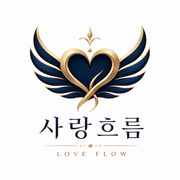
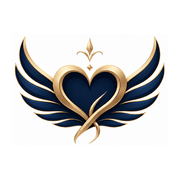
696 공유하기 · 홈 화면에 추가 표준(frame v29 · index v74) · 홈 화면 아이콘 사랑흐름 자기 파일 · 「휴대폰에서 보는 디지털 결과물」 등 휴대폰 한정 말 고침(item v10 · map v3 · set v3 · kit v9 · proposal v43 · my v6 · draw v47)
Claude-Session: https://claude.ai/code/session_01CevunhmdH8sceqdjC36mYo

diff --git a/proposal.html b/proposal.html
@@ -1,4 +1,5 @@
-<!-- ★ 현재 버전 ▶ proposal.html · v42 · 261116 · [카톡 첫인상 그림 교체 · 대표 OK 261116 17:39 「B로 가자」] og-image.png 새 그림(1200×630 · 나를 가운데 둔 관계망 · 「서로의 언어를 알면, 사랑은 더욱 깊어집니다」 · 「MBTI와 사랑흐름 LFRI™로 두 사람 사이를 이어갑니다」) — 그림 주소에 ?v=261116 붙임(카카오 · 네이버가 새 그림을 받게). [무손] 그 밖 v41 전부. -->
+<!-- ★ 현재 버전 ▶ proposal.html · v43 · 261116 · [대표 261116 19:22 「휴대폰에서만 보는 게 아니잖아 · 인쇄도 못 하나 생각이 먼저 든다 · 다 뜯어 고쳐」] 「완성본 전달」 「각자 휴대폰에 저장하시거나」 → 「각자 휴대폰 · 컴퓨터에 저장하시거나」. [무손] 그 밖 v42 전부. -->
+<!-- (이전) ★ 현재 버전 ▶ proposal.html · v42 · 261116 · [카톡 첫인상 그림 교체 · 대표 OK 261116 17:39 「B로 가자」] og-image.png 새 그림(1200×630 · 나를 가운데 둔 관계망 · 「서로의 언어를 알면, 사랑은 더욱 깊어집니다」 · 「MBTI와 사랑흐름 LFRI™로 두 사람 사이를 이어갑니다」) — 그림 주소에 ?v=261116 붙임(카카오 · 네이버가 새 그림을 받게). [무손] 그 밖 v41 전부. -->
 <!-- (이전) ★ 현재 버전 ▶ proposal.html · v41 · 261112 · [포털 검색 ① · 700 · 703 · 대표 OK 261112 11:13] 화면은 그대로 · 머리말만 — 대표 주소(canonical) · 설명 · og · 사이트 이름 「사랑흐름」 · 아이콘(favicon) 붙임 -->
 <!-- (이전) ★ 현재 버전 ▶ proposal.html · v40 · 261112 · [611 · 대표 05:41 「일관성 있게 10편으로 · 토 달지 말고 한 가지로」] 생애사 기록 과정도 열 이야기로 — 「여덟」 · 「아홉째 · 열째는 더해」 말을 걷음. [무손] 그 밖 전부. -->
 <!-- (이전) proposal.html · v39 · 261112 · [611 · 대표 OK 05:19] 자서전 이야기 수를 손님 화면(/memoir/ · /item/)과 맞춤 — 「여덟 구간 · 여덟 자리 · 한 구간」 → 「열 이야기 · 한 이야기」 · 이름 여덟(옛 이름) → 열(33차 확정 A-01 + 아홉째 · 열째 · 셋째 줄 g2 · 강조 mark 는 열째로) · 생애사 기록 과정은 값(79,000 × 8)과 서버 「삶의 여정」(첫째~여덟째)이 걸려 「여덟 이야기 전체 과정 · 여덟 회차」 그대로 + 「아홉째 · 열째는 더해 고르실 수 있습니다」. [무손] 값 · 그 밖 전부. -->
@@ -8,7 +9,7 @@
 <!-- ★ (이전) proposal.html · v35 · 261005 · [작업 v35 · 사진 90일] [대표 결정 261005 12:10 ok] 사진도 기록과 같은 90일 규정 하나로 — 14일 규정 없앰(26차 「사진 원본 14일」 바뀜). 「기록과 함께 보관했다가 기록을 지울 때 함께 지움(마지막 이야기를 마치신 날부터 90일)」. 기관 제안서 사진 줄. [무손] 그 밖 전부. -->
 <!-- ★ 현재 버전 ▶ proposal.html · v34 · 261005 · [작업 v34 · 사진 문구] [클로드 판단 · 대표 위임 261005 11:29] 실제와 맞춤 — 사진은 휴대폰에서 기록에 싣는 크기(긴 쪽 1000)로 줄여 받으므로 원본 파일은 사랑흐름에 오지 않음. 「원본 14일 안에 지움」 → 「원본 파일은 받지 않음」(지킬 수 없는 약속 대신 사실). 기관 제안서 사진 줄. [무손] 그 밖 전부. -->
 <!-- ★ 현재 버전 ▶ proposal.html · v33 · 261005 · [작업 v33 · 자서전 공사 칸 27-4 · 둘째 묶음 틀] 공용 틀 /lf/frame.js?v=5 붙임(위 띠 · ☰ · 아래 길목 다섯 · 옛 상단바 · 드로어 · 길 셋 감춤). 아래 고정 띠(내려받기 · 복사)를 길목 띠 위로 올림 · 「사랑흐름 여행 둘러보기」 감춤(아래 띠와 겹침) · 화면 이름 짧게. [무손] 본문 · 배관 · 서버. -->
-<!-- ★ 현재 버전 ▶ proposal.html · v32 · 260811 · [작업 v32] ★화면에 「여권」이 앞말 없이 덩그러니 놓여 나라 여권으로 오해될 수 있던 자리를 고칩니다(대표 지시 260811). ☰ 메뉴 항목을 ★「마음 여행여권으로 입장」으로 맞춥니다. 확정 규칙 — 손님에게 보이는 물건 이름은 「마음 여행여권」, 실제로 번호를 넣는 자리는 「사랑흐름 여권번호」. 문맥에서 이미 무슨 여권인지 아는 자리(「이 여권은」·「받으신 여권」 등)는 오해가 없어 그대로 둡니다. 시트 열 이름 d['여권번호']·변수·저장 키는 손대지 않았습니다. [무손] 본문·구조·색값·링크·배관 전부 미변경. · v31 · 260810 · [작업 v31] ★문지기(/lf/pass.js) 한 줄 부착 — 대표 확정 260810 「어느 창에서 시작해도 일곱이 있어야 한다」. 홈 · 바로 앞 · 여권으로 문 열기 · 여권 찾기 · 하던 것 이어가기 · 받은 것 다시 보기 · 드나드는 길. 이 화면은 여권칸과 이어가기가 없어 일곱 중 셈이 비어 있었습니다. 문지기가 여권칸을 세우고 ☰ 메뉴 링크에 번호를 붙입니다(마크업 미변경). [무손] 화면 본문·기존 로직·색값 전부. 손대는 곳 = 헤더와 head 한 줄. · v30 · 260807 · [작업 v30] ★무거운 쪽으로 기운 자리 자가 검진 후 교정. 히어로는 재미 쪽으로 갔는데 안으로 들어가면 미안함·회한으로 끌고 있었습니다(260807 대표 지적 — MBTI처럼 재미있게 접근하기로 정한 방향과 어긋남). ①인용을 ★「엄마가 그 말을 그런 뜻으로 한 거였구나 / 완성된 편지를 처음 열어 보신 분의 말씀입니다」로. 앞서 쓴 「미안하다 말하고 싶었는데, 이 편지가 대신 말해주는 것 같았어요 / 편지를 받으신 분들이」는 주어가 뒤집혀 있었습니다 — 미안한 쪽은 쓰는 사람인데 받는 사람 말로 붙였습니다. ②편지 예문을 ★「엄마. 우리가 왜 그렇게 자주 부딪혔는지 이제야 알 것 같아요」로. 「그동안 한 번도 말하지 못했던 이야기를 이제야 적어 봅니다」는 회한이 앞섰습니다. ③교육 성과 「하지 못했던 말을 꺼내 보게 됩니다」→★「서로 다르게 듣던 말이 풀립니다」. MBTI 겹치기가 우리 방식이니 다름에서 오는 발견이 우리 자리입니다. ④「화면이 글자로 받아 적습니다」→「글자로 옮깁니다」(사람이 받아 적는 것으로 읽힐 소지). · [작업 v29] ★세 번 돌아보고 고침(260807 대표 지시 — 한 줄씩 지적하시게 하지 말 것). 【1회차·대표 지적】①「가장 많이 듣는 말이 대신 말해줘서」→누가 언제 한 말인지 없어 알 수 없었습니다. ★「미안하다 말하고 싶었는데, 이 편지가 대신 말해주는 것 같았어요 / 편지를 받으신 분들이 가장 많이 하신 말씀입니다」로 인용 형식. ②「서명은 그 한 편을 확인하셨다는 표시입니다」→증표가 표시로 격하됐습니다. ★「손글씨 서명은 그 여정을 스스로 마쳤다는 증표입니다. 한 구간이 끝날 때마다 날짜와 함께 남기시고, 여덟 자리를 다 걸으시면 여덟 개의 증표가 한 사람의 여정으로 모입니다」. ③절 제목 「어떤 분이든 남기실 수 있습니다」→★「말로 남기는 기록」. 「글을 쓰지 않으셔도」로 시작해 우수한 기능을 못한다는 말로 열고 있었습니다. ④「말씀만 하셔도 글이 됩니다. 손이 불편하셔도, 눈이 어두우셔도, 글을 오래 안 쓰셨어도 그대로 남습니다」로 기능을 앞세움. 【2회차·다시 읽고】히어로 「글로 남깁니다」→「그 마음을 글로 옮겨 건넵니다」 · 「건네집니다」 중복 정리 · 「남기는」 「남습니다」 반복 정리 · 「선물 대신」→「마음을 전하는 자리로」 · 마무리 lead 「전하지 못한 마음도 여행이 될 수 있습니다」→「먼저 열어 보시고 정하십시오」. 【3회차·확정 문구 대조】★「진행 인력이 지원합니다」 삭제 — 사람을 보내 준다는 약속이 됩니다. 「결과물이 산출됩니다」→260726 확정 문구 「참여하신 분마다 결과물이 나옵니다」로 통일. 단계별 연계 구성 절에 창고 확정 세 줄(좋은 사이는 더 깊게 이어지고…) 배치. · [작업 v28] ★「교육 성과」 통일 + 여권 표기 정리(260807 대표 지적 스무 곳 일괄). ①「교육 효과」·「기대 효과」를 ★「교육 성과」로 통일. ②★그 칸 내용이 결과물 목록이었던 것을 성과로 바꿈 — 관계 이해는 「그 관계가 지금 어디쯤인지 알게 됩니다·서로 말하는 방식이 어떻게 다른지 풀립니다·참여자마다 마음 여행지도가 나옵니다」, 관계 소통은 「하지 못했던 말을 꺼내 보게 됩니다·그 마음이 실제로 그 사람에게 건네집니다·참여자마다 마음 여행편지가 나옵니다」, 생애 기록은 「살아온 이야기가 글로 남습니다·자기 삶을 다시 읽어 보게 됩니다·참여자마다 기록이 나옵니다」. 프로그램 구성표 열도 같은 결로. ③★여권 표기 — 상품을 가리키면 「마음 여행여권」, 「여권」만 홀로 써서 무슨 여권인지 애매해지는 자리는 ★「사랑흐름 여권」(브랜드로 오해 방지). 「이 한 장으로」·「이 번호 하나로」·「같은 여권으로」 전부 교체. ④「한 장」·「한 통」·「한 편씩」 세는 말 정리 — 여러 사람이 하는 교육에 낱개 세기가 어울리지 않습니다. ⑤「어떤 형태로 남는지」→「실제로 만들어진 것을 먼저 보십니다」. ⑥「관리자 화면에서」→「담당자 계정에서」. · [작업 v27] ★260726 확정 문구로 복원 + 브랜드 절 다시 세움. ①★「책」 전면 삭제 — 「목차와 사진이 들어간 책 형태로」·「서명은 책에 그대로 담깁니다」·「책에서는 사진 한 장이 한 쪽으로」. 260726에 「인쇄 납품·실물 배송」과 함께 지운 표현을 제가 오늘 되살렸습니다. 결과물은 파일이고 손님이 저장하거나 인쇄해 간직합니다. 종이책은 별도입니다. 완성본 전달을 260726 확정 문구 「참여하신 분마다 결과물이 나옵니다. 각자 휴대폰에 저장하시거나 인쇄해 간직하십니다」로 되돌렸습니다. ②「완성본을 먼저 보내」→「완성본을 먼저 확인하십니다」(보내는 배관 없음). ③「없는 자리는 건너뛰고, 중간에 멈춰도 이어집니다」 삭제(불성실하게 써도 결과물이 나온다고 읽힘). ④「어르신 프로그램에서 가장 큰 벽은」 단정 삭제 → 「글을 쓰지 않으셔도 남기실 수 있습니다」. 「기기가 안 되면 자판의 마이크를」 삭제(우리 사정). ⑤★마음 여행여권 절을 발급 설명에서 ★브랜드로 다시 세움 — 「나라를 넘나드는 여권처럼, 이 한 장으로 사랑흐름의 모든 문이 열립니다」. 어디서든 같은 자리로 · 지난 여행이 그대로 · 한 장으로 여러 여정. 발급·명단은 한 줄로 내렸습니다(진행 순서 절과 겹침). ⑥★기관 담당자 계정 명시 — 260707~08 이사회 확정 3레벨(L1 대표·L2 조직 총무·L3 실무). 여행DB_v2 에 Source·OrganizationID·InputMethod 칸이 이미 있습니다. ⑦교육 효과 칸을 좁은 세로 목록에서 ★가로 한 줄로 펴고, 물건 이름 나열에서 무엇이 남는지로 바꿨습니다. · [작업 v26] ★생애 기록 디테일 전면 보강 + 접근성 절 신설. ①생애 기록 제작 절차를 다섯에서 ★여섯 단계로 — 「사진 더하기」 신설(한 편에 세 장·책에서 사진 한 장이 한 쪽). ②★「본인 확인과 서명」을 절차의 매듭으로 명시 — 완성본을 먼저 보내 확인받고 날짜와 손글씨 서명으로 그 한 편이 확정됩니다. ★「한 편마다 한 번, 여덟 편이면 여덟 번」을 굵게 박았습니다(260807 대표 확정). 「한 편의 기록」이 79,000원짜리 완결 상품이라 한 편만 사신 손님도 서명 있는 온전한 결과물을 받아야 합니다. 「서명 전에는 언제든 고치실 수 있습니다」 한 줄 신설. 원고 정리도 「맞춤법과 문장만 고르게 다듬습니다」로 범위를 밝혔습니다. ③★절 신설 — 「어떤 분이든 남기실 수 있습니다」. 말로 하면 글이 되는 것·물음을 소리로 읽어 주는 것·가족 대필·사진 세 장이 절차 한 줄에 묻혀 있었습니다. 어르신 프로그램의 가장 큰 벽이 「글을 못 쓰신다」이고 그 벽을 넘는 것이 우리 출발점이라, 네 칸으로 크게 세웠습니다. 기관 심사에서 접근성이 크게 걸립니다. ④관계 소통 프로그램 절 보강 — 다섯 물음·손글씨체 조판·카카오톡 전송을 넣어 관계 이해 워크숍 절과 무게를 맞췄습니다. ⑤「결과물」을 ★「교육 효과」로. [미구현·인수인계 필요] sign.html 은 지금 ?name= 만 받고 편 구분과 저장 배관이 없습니다. 제안서에 「한 편마다」로 적었으므로 ★sign.html 에 ?place= 받기 · 자서전 GAS 에 서명·날짜 칸 · book.html 에 편별 서명 자리, 셋을 반드시 맞춰야 합니다. · [작업 v25] ★브랜드 언어로 되돌림(260807 대표 격노 — 같은 지적 세 번). ★제가 「전문가답게」를 행정 용어로 잘못 알아듣고 브랜드를 기능어로 두 번 내렸습니다 — 원래 「마음 여행여권 — 기관이 나눠 주시는 열쇠」였던 절 제목을 「사랑흐름 여권번호 하나로 어디서든」으로, 다시 「여권번호 발급과 운영」으로 바꿨습니다. 시스템 설명이 됐습니다. ①절 제목을 ★「마음 여행여권」으로 되돌림. 부제도 「한 장으로 모든 프로그램이 열립니다」로. ②세 칸 — 일괄 발급→인원수만큼 한 번에 / 개인정보 비수집→참여자 명단 없이 / 전달 방식 선택→전하는 방법. ③본문 기능어 열여덟 자리를 브랜드로 — 「번호」로 부르던 것을 「마음 여행여권」으로. ★원칙(기억 6번에 못박음): 제목·소개·설명·카피는 「마음 여행여권」. 「사랑흐름 여권번호」는 손님이 실제로 번호를 입력하는 동작을 말할 때와 내부 문서에서만. · [작업 v24] ★회사 정보 푸터 신설 — 기관에 보내는 문서인데 상호·사업자등록번호가 한 줄도 없었습니다. 공용 푸터(lf-foot.js v1)는 링크와 저작권 문구뿐이고 사업자 정보를 안 그립니다(손님 화면은 about.html 안으로 넣는 설계라 맞습니다만 제안서는 결재 서류라 다릅니다). 히어로와 마무리에서 연락처를 뺀 뒤 문서 전체에 전화번호도 사업자등록번호도 0건이 됐던 구멍을 메웠습니다. 두 줄 · 11.5px / 10px · 가운데 정렬 · 위에 가는 선. 공용 푸터는 손대지 않고 그 위에 얹었습니다. · [작업 v23] ★말투 전면 통일(260807 대표 격노 — 절마다 결이 달라 한 줄씩 지적하게 만들었습니다). 기준 = 절 제목은 명사형 · 설명은 「~합니다」 한 줄 · 용어는 교육 행정 용어. ①절 제목 여덟 — 「사랑흐름 여권번호 하나로 어디서든」→여권번호 발급과 운영 / 「자서전이 만들어지는 과정」→생애 기록 제작 절차 / 「네 가지는 하나의 길입니다」→단계별 연계 구성 / 「다양한 마음 여정」→프로그램 구성표 / 「쓰는 방법」→운영 방식 / 「예산은 두 줄」→예산 편성 / 「제안서·보고서 자료는 따로 드립니다」→제출용 문서 지원 / 「지금 열어 보기」→문의와 체험. ②★용어 교체 — 수량→인원 / 쓰시는 동안→작성 기간 / 모여서 하는 자리→집합 교육 / 여권만 전해 드리는 방식→개별 진행 / 명단이 필요 없습니다→개인정보 비수집 / 수량만큼 한 번에 발급→일괄 발급. ③「~하십시오」·「~쓰십니다」·「~드립니다」 남발 정리. 일상어와 사무어가 한 절 안에서 섞여 있던 것을 없앴습니다. ④두 줄 설명을 한 줄로 — 「인생 전체를 한꺼번에 쓰지 않습니다. 여덟 구간으로 나누어…」→「한 회차에 한 구간씩 진행합니다」. · [작업 v22] ★근본 정리 — 전체 높이 11,167 → 8,979px. ①★.steps 를 한 줄 한 칸에서 ★두 칸 그리드로. 「진행 순서」 채움률 26%·「자서전이 만들어지는 과정」 36% 였는데 둘 다 같은 원인이었습니다 — 글자는 짧은데 칸이 화면 폭 전체라 오른쪽 4분의 3이 비었습니다. CSS 한 곳을 고쳐 두 절이 동시에 해결됐습니다. ②★다섯 축을 세로 목록에서 ★가로 다섯 칸으로. 번호 동그라미를 빼고 축 이름을 21px로 키웠습니다. ③★결과물 세 번 반복 정리 — 「다양한 마음 여정」 표가 각 프로그램 절의 결과물 블록과 겹쳤습니다. 표를 ★프로그램 이름·남는 것·가장 짧게 세 칸으로 다시 짰습니다. ★그 표에 손님용 상품명(마음 여행지도·마음여행·두 분의 여정)이 기관 제안서에 그대로 남아 있던 것도 함께 바로잡았습니다. ④★군더더기 삭제 — 「무료 두 가지는 여권번호 없이 열립니다」 두 곳·「전달 방식은 자유입니다」 설명부·표 아래 안내. 무료라고 이미 써 있고 쇼룸도 여권 없이 열립니다. ⑤「기관에 남는 것」→★「교육 성과 자료」. 그 절에 있던 「정산 자료」 칸은 삭제(예산 이야기라 자리가 아닙니다). ⑥맨 아래 QR을 화면 폭과 상관없이 오른쪽 끝 고정(좁아지면 가운데로 내려오고 있었습니다). · [작업 v21] ★히어로 타이틀 교체 — 「MBTI는 내 성격을 / 사랑흐름은 우리 사이를 번역합니다」(260807 대표 확정). 깔때기 제일 큰 키워드가 MBTI인데 첫 화면에 그 말이 없었습니다. MBTI를 깎지 않고 그 다음 이야기로 올라섭니다. 「마음을 전하는 사랑흐름 여행 / 곁에 계신 그분에게 내 마음을 전합니다」는 주어가 없고 순서가 뒤집혀 있었습니다. ②★연락처 남발 정리 — 히어로와 마무리에서 삭제. 푸터 하나만 남깁니다(전에는 세 번 나왔습니다). ③★「드리는 것 — 마음 여행여권」 칸과 「나누어 하셔도 한 장입니다」 한 줄 삭제 — 바로 다음 절이 통째로 「사랑흐름 여권번호 하나로 어디서든」이라 여권 이야기가 세 번 나왔습니다. ④★프로그램 다섯 카드 전부에 QR 도장(전에는 ①③만). ⑤여권 절 부제를 기관 숙제에서 ★장점으로 — 어디서든 이어지고 예습 복습이 됩니다. · [작업 v20] ★어수선함 정리 + 가격 삭제 + 실물 여권. ①★QR을 도장으로 — 새 칸·구분선·설명 글자를 전부 걷고 카드 오른쪽 위 구석에 QR만 58px로 앉혔습니다. 「찍으시면 바로 열립니다」·「여행지도 보기」 류 삭제 — QR을 찍으면 열린다는 걸 모르는 사람이 없고, 카드 제목이 이미 그 말을 합니다. 카드 높이 그대로. ②★값 0건(260807 대표 확정). ★「30명 미만/30명 이상/500명 이상」 세 칸 통째 삭제 — 값이 빠지니 뜻이 없어졌습니다. ③★존칭 정리 — 「예산은 두 줄로 잡으십니다」→「예산은 두 줄」 / 「이렇게 쓰십니다」→「쓰는 방법」 / 「자서전은 이렇게 만들어집니다」→「자서전이 만들어지는 과정」 / 「이렇게 진행됩니다」→「진행 순서」 / 「지금 바로 열어 보십시오」→「지금 열어 보기」. 읽는 분은 담당자이지 모실 어른이 아닙니다. ④★히어로 여권을 실물로 — reenter 의 .cert 부품을 렌더해 캡처. 번호 뒤 두 자리만 ●●. 「(예시)」 삭제. ⑤히어로를 창고 말로. 대비 한 줄·학술 근거 한 줄 신설. ★맨 아래 .fin2 QR을 외부 서비스(api.qrserver.com) 이미지에서 ★파일 안 base64 로 바꿨습니다 — 그 서비스가 죽으면 QR이 사라집니다. 자리는 원래 있던 그대로 — 종이로 뽑거나 이미지로 캡처해 보낼 때 마지막 길입니다. [무손] 프로그램 이름·여덟 자리·진행 절차 내용·보고 자료·연락처·lf-menu·푸터 미변경. · v18 · 260807 · [작업 v18] ★기관용 프로그램 이름과 회차 구조로 전환. 260807 이사회 회신 다섯 건 가운데 셋이 같은 말 — 「기관은 상품을 사지 않고 프로그램을 산다」. 담당자가 예산에 올리는 것은 「마음여행」이 아니라 「관계 소통 프로그램」입니다. ①서비스 카드를 ★프로그램 다섯으로 다시 세움. 무료 둘과 여권 칸은 그대로, 카드 여덟 칸 수도 그대로라 레이아웃 미변경. ②★편지 단품이 독립 상품처럼 서 있던 것을 바로잡음 — 편지 단품은 260730에 폐지됐는데 「상품 ② 마음 여행편지」로 따로 팔리는 것처럼 보였습니다. 이제 「프로그램 ② 관계 소통 프로그램」입니다. 그 절 본문은 한 글자도 안 고쳤습니다. ③★사실과 다른 문구 삭제 — 「인원 늘수록 단가 인하」. 원장은 단순 곱이라 50명이든 100명이든 단가가 같습니다(LF-S050 = 48,900 곱하기 50 = 2,445,000 실측). 없는 할인을 약속하고 있었습니다. ④예산 ② 를 ★「1인 1회차 단가 곱하기 인원 곱하기 회차」로. ⑤★「회차와 인원은 기관에서 정하십니다」 한 줄 신설(260807 대표 확정). ⑥단독 「여권번호」를 「사랑흐름 여권번호」로(260711 원칙). ★결과물 이름은 결과물 자리에 그대로 둡니다 — 프로그램은 기관이 사는 것, 결과물은 참여자가 받는 것. [무손] 여권 절·다섯 축·여덟 자리·진행 절차·기관에 남는 것·보고 자료·값·연락처·lf-menu·푸터 전부 미변경. · v17 · 260806 · [작업 v17] 「인생여행」→「두 분의 여정」 이름 교체(260806 대표 확정). 코드키 life·상품코드 LF-A·스토어 링크·발권·주문대장 J열 전부 무손 — 이름만 바꿉니다. 옛 이름은 이력 주석에 그대로 둡니다. / [v16 · 260804] [작업 v16] ⑥★상품 카드 라벨 분리 — 마음여행과 인생여행이 둘 다 「한 번에 여행하기」로 같은 라벨을 달고 있어 기관이 두 상품을 같은 것으로 읽을 수 있었습니다(대표 지적 260804). 「둘을 한 번에」·「셋을 한 번에」로 가릅니다. 상품명·값은 미변경. ★여덟 자리로 맞춤 + 못 지킬 약속 삭제 — ①「일곱 테마」·「챕터」 열 곳 제거(260803 확정: 「장」·「챕터」 금지, 「한 편」 통일). ②옆 일곱 테마 목록(유년기…지금의 마음)을 ★확정된 여덟 자리 이름으로 교체. ③「한 권으로 남습니다」 두 곳 → 「한 편」(260804 대표 확정: 종이책은 별도이므로 한 편 값에 책이 오는 것처럼 말하면 안 됨). ④「실물 제본은 별도 협의」 → 「종이책으로 엮는 일은 별도」로 표기 통일. ⑤결과물 「일곱 테마를 엮은 완성본」 → 「한 구간을 엮은 완성본」(한 편 값으로 여덟을 다 주는 것처럼 읽히던 자리). [무손] 가격·단체표·진행단계·개인정보·푸터·색값 전부 미변경. · v15 · 260728 · ①하단 줄을 공용 부품(/lf-foot.js)으로 교체 — 링크 여섯(소개·이용약관·개인정보·환불정책·카카오톡 문의·안내자·제휴) + 저작권 한글 1줄 + 영문 2줄, 모두 네 줄. 화면 스물여섯 곳이 같은 한 벌. 「홈으로」는 상단바 로고와 중복이라 뺌(260706 확정). 앞으로 하단 줄은 lf-foot.js 한 파일만 고치면 전 화면이 함께 바뀜. ②드로어에 「사랑흐름 여행 안내자」 한 줄 신설 — 「마음 여행 예매하기」 다음·「다시 시작」 앞. 홈 index v25 와 같은 자리·같은 글자. 메뉴 12항목. 새 CSS 0줄·새 색 0개. ③기관 전달 구역 정리 — 「1년 동안 유효합니다 / 올해 못 쓰신 분은 내년에」 칸 통째 삭제, 격자 네 칸(g4)→세 칸(g3, 이미 있던 클래스라 새 CSS 0줄). 전달 방식에서 「통장 봉투」·「현장 배부」 제거(같은 화면 두 곳 모두) → 「문자 · 안내장 · 인쇄 카드」.
+<!-- ★ 현재 버전 ▶ proposal.html · v32 · 260811 · [작업 v32] ★화면에 「여권」이 앞말 없이 덩그러니 놓여 나라 여권으로 오해될 수 있던 자리를 고칩니다(대표 지시 260811). ☰ 메뉴 항목을 ★「마음 여행여권으로 입장」으로 맞춥니다. 확정 규칙 — 손님에게 보이는 물건 이름은 「마음 여행여권」, 실제로 번호를 넣는 자리는 「사랑흐름 여권번호」. 문맥에서 이미 무슨 여권인지 아는 자리(「이 여권은」·「받으신 여권」 등)는 오해가 없어 그대로 둡니다. 시트 열 이름 d['여권번호']·변수·저장 키는 손대지 않았습니다. [무손] 본문·구조·색값·링크·배관 전부 미변경. · v31 · 260810 · [작업 v31] ★문지기(/lf/pass.js) 한 줄 부착 — 대표 확정 260810 「어느 창에서 시작해도 일곱이 있어야 한다」. 홈 · 바로 앞 · 여권으로 문 열기 · 여권 찾기 · 하던 것 이어가기 · 받은 것 다시 보기 · 드나드는 길. 이 화면은 여권칸과 이어가기가 없어 일곱 중 셈이 비어 있었습니다. 문지기가 여권칸을 세우고 ☰ 메뉴 링크에 번호를 붙입니다(마크업 미변경). [무손] 화면 본문·기존 로직·색값 전부. 손대는 곳 = 헤더와 head 한 줄. · v30 · 260807 · [작업 v30] ★무거운 쪽으로 기운 자리 자가 검진 후 교정. 히어로는 재미 쪽으로 갔는데 안으로 들어가면 미안함·회한으로 끌고 있었습니다(260807 대표 지적 — MBTI처럼 재미있게 접근하기로 정한 방향과 어긋남). ①인용을 ★「엄마가 그 말을 그런 뜻으로 한 거였구나 / 완성된 편지를 처음 열어 보신 분의 말씀입니다」로. 앞서 쓴 「미안하다 말하고 싶었는데, 이 편지가 대신 말해주는 것 같았어요 / 편지를 받으신 분들이」는 주어가 뒤집혀 있었습니다 — 미안한 쪽은 쓰는 사람인데 받는 사람 말로 붙였습니다. ②편지 예문을 ★「엄마. 우리가 왜 그렇게 자주 부딪혔는지 이제야 알 것 같아요」로. 「그동안 한 번도 말하지 못했던 이야기를 이제야 적어 봅니다」는 회한이 앞섰습니다. ③교육 성과 「하지 못했던 말을 꺼내 보게 됩니다」→★「서로 다르게 듣던 말이 풀립니다」. MBTI 겹치기가 우리 방식이니 다름에서 오는 발견이 우리 자리입니다. ④「화면이 글자로 받아 적습니다」→「글자로 옮깁니다」(사람이 받아 적는 것으로 읽힐 소지). · [작업 v29] ★세 번 돌아보고 고침(260807 대표 지시 — 한 줄씩 지적하시게 하지 말 것). 【1회차·대표 지적】①「가장 많이 듣는 말이 대신 말해줘서」→누가 언제 한 말인지 없어 알 수 없었습니다. ★「미안하다 말하고 싶었는데, 이 편지가 대신 말해주는 것 같았어요 / 편지를 받으신 분들이 가장 많이 하신 말씀입니다」로 인용 형식. ②「서명은 그 한 편을 확인하셨다는 표시입니다」→증표가 표시로 격하됐습니다. ★「손글씨 서명은 그 여정을 스스로 마쳤다는 증표입니다. 한 구간이 끝날 때마다 날짜와 함께 남기시고, 여덟 자리를 다 걸으시면 여덟 개의 증표가 한 사람의 여정으로 모입니다」. ③절 제목 「어떤 분이든 남기실 수 있습니다」→★「말로 남기는 기록」. 「글을 쓰지 않으셔도」로 시작해 우수한 기능을 못한다는 말로 열고 있었습니다. ④「말씀만 하셔도 글이 됩니다. 손이 불편하셔도, 눈이 어두우셔도, 글을 오래 안 쓰셨어도 그대로 남습니다」로 기능을 앞세움. 【2회차·다시 읽고】히어로 「글로 남깁니다」→「그 마음을 글로 옮겨 건넵니다」 · 「건네집니다」 중복 정리 · 「남기는」 「남습니다」 반복 정리 · 「선물 대신」→「마음을 전하는 자리로」 · 마무리 lead 「전하지 못한 마음도 여행이 될 수 있습니다」→「먼저 열어 보시고 정하십시오」. 【3회차·확정 문구 대조】★「진행 인력이 지원합니다」 삭제 — 사람을 보내 준다는 약속이 됩니다. 「결과물이 산출됩니다」→260726 확정 문구 「참여하신 분마다 결과물이 나옵니다」로 통일. 단계별 연계 구성 절에 창고 확정 세 줄(좋은 사이는 더 깊게 이어지고…) 배치. · [작업 v28] ★「교육 성과」 통일 + 여권 표기 정리(260807 대표 지적 스무 곳 일괄). ①「교육 효과」·「기대 효과」를 ★「교육 성과」로 통일. ②★그 칸 내용이 결과물 목록이었던 것을 성과로 바꿈 — 관계 이해는 「그 관계가 지금 어디쯤인지 알게 됩니다·서로 말하는 방식이 어떻게 다른지 풀립니다·참여자마다 마음 여행지도가 나옵니다」, 관계 소통은 「하지 못했던 말을 꺼내 보게 됩니다·그 마음이 실제로 그 사람에게 건네집니다·참여자마다 마음 여행편지가 나옵니다」, 생애 기록은 「살아온 이야기가 글로 남습니다·자기 삶을 다시 읽어 보게 됩니다·참여자마다 기록이 나옵니다」. 프로그램 구성표 열도 같은 결로. ③★여권 표기 — 상품을 가리키면 「마음 여행여권」, 「여권」만 홀로 써서 무슨 여권인지 애매해지는 자리는 ★「사랑흐름 여권」(브랜드로 오해 방지). 「이 한 장으로」·「이 번호 하나로」·「같은 여권으로」 전부 교체. ④「한 장」·「한 통」·「한 편씩」 세는 말 정리 — 여러 사람이 하는 교육에 낱개 세기가 어울리지 않습니다. ⑤「어떤 형태로 남는지」→「실제로 만들어진 것을 먼저 보십니다」. ⑥「관리자 화면에서」→「담당자 계정에서」. · [작업 v27] ★260726 확정 문구로 복원 + 브랜드 절 다시 세움. ①★「책」 전면 삭제 — 「목차와 사진이 들어간 책 형태로」·「서명은 책에 그대로 담깁니다」·「책에서는 사진 한 장이 한 쪽으로」. 260726에 「인쇄 납품·실물 배송」과 함께 지운 표현을 제가 오늘 되살렸습니다. 결과물은 파일이고 손님이 저장하거나 인쇄해 간직합니다. 종이책은 별도입니다. 완성본 전달을 260726 확정 문구 「참여하신 분마다 결과물이 나옵니다. 각자 휴대폰 · 컴퓨터에 저장하시거나 인쇄해 간직하십니다」로 되돌렸습니다. ②「완성본을 먼저 보내」→「완성본을 먼저 확인하십니다」(보내는 배관 없음). ③「없는 자리는 건너뛰고, 중간에 멈춰도 이어집니다」 삭제(불성실하게 써도 결과물이 나온다고 읽힘). ④「어르신 프로그램에서 가장 큰 벽은」 단정 삭제 → 「글을 쓰지 않으셔도 남기실 수 있습니다」. 「기기가 안 되면 자판의 마이크를」 삭제(우리 사정). ⑤★마음 여행여권 절을 발급 설명에서 ★브랜드로 다시 세움 — 「나라를 넘나드는 여권처럼, 이 한 장으로 사랑흐름의 모든 문이 열립니다」. 어디서든 같은 자리로 · 지난 여행이 그대로 · 한 장으로 여러 여정. 발급·명단은 한 줄로 내렸습니다(진행 순서 절과 겹침). ⑥★기관 담당자 계정 명시 — 260707~08 이사회 확정 3레벨(L1 대표·L2 조직 총무·L3 실무). 여행DB_v2 에 Source·OrganizationID·InputMethod 칸이 이미 있습니다. ⑦교육 효과 칸을 좁은 세로 목록에서 ★가로 한 줄로 펴고, 물건 이름 나열에서 무엇이 남는지로 바꿨습니다. · [작업 v26] ★생애 기록 디테일 전면 보강 + 접근성 절 신설. ①생애 기록 제작 절차를 다섯에서 ★여섯 단계로 — 「사진 더하기」 신설(한 편에 세 장·책에서 사진 한 장이 한 쪽). ②★「본인 확인과 서명」을 절차의 매듭으로 명시 — 완성본을 먼저 보내 확인받고 날짜와 손글씨 서명으로 그 한 편이 확정됩니다. ★「한 편마다 한 번, 여덟 편이면 여덟 번」을 굵게 박았습니다(260807 대표 확정). 「한 편의 기록」이 79,000원짜리 완결 상품이라 한 편만 사신 손님도 서명 있는 온전한 결과물을 받아야 합니다. 「서명 전에는 언제든 고치실 수 있습니다」 한 줄 신설. 원고 정리도 「맞춤법과 문장만 고르게 다듬습니다」로 범위를 밝혔습니다. ③★절 신설 — 「어떤 분이든 남기실 수 있습니다」. 말로 하면 글이 되는 것·물음을 소리로 읽어 주는 것·가족 대필·사진 세 장이 절차 한 줄에 묻혀 있었습니다. 어르신 프로그램의 가장 큰 벽이 「글을 못 쓰신다」이고 그 벽을 넘는 것이 우리 출발점이라, 네 칸으로 크게 세웠습니다. 기관 심사에서 접근성이 크게 걸립니다. ④관계 소통 프로그램 절 보강 — 다섯 물음·손글씨체 조판·카카오톡 전송을 넣어 관계 이해 워크숍 절과 무게를 맞췄습니다. ⑤「결과물」을 ★「교육 효과」로. [미구현·인수인계 필요] sign.html 은 지금 ?name= 만 받고 편 구분과 저장 배관이 없습니다. 제안서에 「한 편마다」로 적었으므로 ★sign.html 에 ?place= 받기 · 자서전 GAS 에 서명·날짜 칸 · book.html 에 편별 서명 자리, 셋을 반드시 맞춰야 합니다. · [작업 v25] ★브랜드 언어로 되돌림(260807 대표 격노 — 같은 지적 세 번). ★제가 「전문가답게」를 행정 용어로 잘못 알아듣고 브랜드를 기능어로 두 번 내렸습니다 — 원래 「마음 여행여권 — 기관이 나눠 주시는 열쇠」였던 절 제목을 「사랑흐름 여권번호 하나로 어디서든」으로, 다시 「여권번호 발급과 운영」으로 바꿨습니다. 시스템 설명이 됐습니다. ①절 제목을 ★「마음 여행여권」으로 되돌림. 부제도 「한 장으로 모든 프로그램이 열립니다」로. ②세 칸 — 일괄 발급→인원수만큼 한 번에 / 개인정보 비수집→참여자 명단 없이 / 전달 방식 선택→전하는 방법. ③본문 기능어 열여덟 자리를 브랜드로 — 「번호」로 부르던 것을 「마음 여행여권」으로. ★원칙(기억 6번에 못박음): 제목·소개·설명·카피는 「마음 여행여권」. 「사랑흐름 여권번호」는 손님이 실제로 번호를 입력하는 동작을 말할 때와 내부 문서에서만. · [작업 v24] ★회사 정보 푸터 신설 — 기관에 보내는 문서인데 상호·사업자등록번호가 한 줄도 없었습니다. 공용 푸터(lf-foot.js v1)는 링크와 저작권 문구뿐이고 사업자 정보를 안 그립니다(손님 화면은 about.html 안으로 넣는 설계라 맞습니다만 제안서는 결재 서류라 다릅니다). 히어로와 마무리에서 연락처를 뺀 뒤 문서 전체에 전화번호도 사업자등록번호도 0건이 됐던 구멍을 메웠습니다. 두 줄 · 11.5px / 10px · 가운데 정렬 · 위에 가는 선. 공용 푸터는 손대지 않고 그 위에 얹었습니다. · [작업 v23] ★말투 전면 통일(260807 대표 격노 — 절마다 결이 달라 한 줄씩 지적하게 만들었습니다). 기준 = 절 제목은 명사형 · 설명은 「~합니다」 한 줄 · 용어는 교육 행정 용어. ①절 제목 여덟 — 「사랑흐름 여권번호 하나로 어디서든」→여권번호 발급과 운영 / 「자서전이 만들어지는 과정」→생애 기록 제작 절차 / 「네 가지는 하나의 길입니다」→단계별 연계 구성 / 「다양한 마음 여정」→프로그램 구성표 / 「쓰는 방법」→운영 방식 / 「예산은 두 줄」→예산 편성 / 「제안서·보고서 자료는 따로 드립니다」→제출용 문서 지원 / 「지금 열어 보기」→문의와 체험. ②★용어 교체 — 수량→인원 / 쓰시는 동안→작성 기간 / 모여서 하는 자리→집합 교육 / 여권만 전해 드리는 방식→개별 진행 / 명단이 필요 없습니다→개인정보 비수집 / 수량만큼 한 번에 발급→일괄 발급. ③「~하십시오」·「~쓰십니다」·「~드립니다」 남발 정리. 일상어와 사무어가 한 절 안에서 섞여 있던 것을 없앴습니다. ④두 줄 설명을 한 줄로 — 「인생 전체를 한꺼번에 쓰지 않습니다. 여덟 구간으로 나누어…」→「한 회차에 한 구간씩 진행합니다」. · [작업 v22] ★근본 정리 — 전체 높이 11,167 → 8,979px. ①★.steps 를 한 줄 한 칸에서 ★두 칸 그리드로. 「진행 순서」 채움률 26%·「자서전이 만들어지는 과정」 36% 였는데 둘 다 같은 원인이었습니다 — 글자는 짧은데 칸이 화면 폭 전체라 오른쪽 4분의 3이 비었습니다. CSS 한 곳을 고쳐 두 절이 동시에 해결됐습니다. ②★다섯 축을 세로 목록에서 ★가로 다섯 칸으로. 번호 동그라미를 빼고 축 이름을 21px로 키웠습니다. ③★결과물 세 번 반복 정리 — 「다양한 마음 여정」 표가 각 프로그램 절의 결과물 블록과 겹쳤습니다. 표를 ★프로그램 이름·남는 것·가장 짧게 세 칸으로 다시 짰습니다. ★그 표에 손님용 상품명(마음 여행지도·마음여행·두 분의 여정)이 기관 제안서에 그대로 남아 있던 것도 함께 바로잡았습니다. ④★군더더기 삭제 — 「무료 두 가지는 여권번호 없이 열립니다」 두 곳·「전달 방식은 자유입니다」 설명부·표 아래 안내. 무료라고 이미 써 있고 쇼룸도 여권 없이 열립니다. ⑤「기관에 남는 것」→★「교육 성과 자료」. 그 절에 있던 「정산 자료」 칸은 삭제(예산 이야기라 자리가 아닙니다). ⑥맨 아래 QR을 화면 폭과 상관없이 오른쪽 끝 고정(좁아지면 가운데로 내려오고 있었습니다). · [작업 v21] ★히어로 타이틀 교체 — 「MBTI는 내 성격을 / 사랑흐름은 우리 사이를 번역합니다」(260807 대표 확정). 깔때기 제일 큰 키워드가 MBTI인데 첫 화면에 그 말이 없었습니다. MBTI를 깎지 않고 그 다음 이야기로 올라섭니다. 「마음을 전하는 사랑흐름 여행 / 곁에 계신 그분에게 내 마음을 전합니다」는 주어가 없고 순서가 뒤집혀 있었습니다. ②★연락처 남발 정리 — 히어로와 마무리에서 삭제. 푸터 하나만 남깁니다(전에는 세 번 나왔습니다). ③★「드리는 것 — 마음 여행여권」 칸과 「나누어 하셔도 한 장입니다」 한 줄 삭제 — 바로 다음 절이 통째로 「사랑흐름 여권번호 하나로 어디서든」이라 여권 이야기가 세 번 나왔습니다. ④★프로그램 다섯 카드 전부에 QR 도장(전에는 ①③만). ⑤여권 절 부제를 기관 숙제에서 ★장점으로 — 어디서든 이어지고 예습 복습이 됩니다. · [작업 v20] ★어수선함 정리 + 가격 삭제 + 실물 여권. ①★QR을 도장으로 — 새 칸·구분선·설명 글자를 전부 걷고 카드 오른쪽 위 구석에 QR만 58px로 앉혔습니다. 「찍으시면 바로 열립니다」·「여행지도 보기」 류 삭제 — QR을 찍으면 열린다는 걸 모르는 사람이 없고, 카드 제목이 이미 그 말을 합니다. 카드 높이 그대로. ②★값 0건(260807 대표 확정). ★「30명 미만/30명 이상/500명 이상」 세 칸 통째 삭제 — 값이 빠지니 뜻이 없어졌습니다. ③★존칭 정리 — 「예산은 두 줄로 잡으십니다」→「예산은 두 줄」 / 「이렇게 쓰십니다」→「쓰는 방법」 / 「자서전은 이렇게 만들어집니다」→「자서전이 만들어지는 과정」 / 「이렇게 진행됩니다」→「진행 순서」 / 「지금 바로 열어 보십시오」→「지금 열어 보기」. 읽는 분은 담당자이지 모실 어른이 아닙니다. ④★히어로 여권을 실물로 — reenter 의 .cert 부품을 렌더해 캡처. 번호 뒤 두 자리만 ●●. 「(예시)」 삭제. ⑤히어로를 창고 말로. 대비 한 줄·학술 근거 한 줄 신설. ★맨 아래 .fin2 QR을 외부 서비스(api.qrserver.com) 이미지에서 ★파일 안 base64 로 바꿨습니다 — 그 서비스가 죽으면 QR이 사라집니다. 자리는 원래 있던 그대로 — 종이로 뽑거나 이미지로 캡처해 보낼 때 마지막 길입니다. [무손] 프로그램 이름·여덟 자리·진행 절차 내용·보고 자료·연락처·lf-menu·푸터 미변경. · v18 · 260807 · [작업 v18] ★기관용 프로그램 이름과 회차 구조로 전환. 260807 이사회 회신 다섯 건 가운데 셋이 같은 말 — 「기관은 상품을 사지 않고 프로그램을 산다」. 담당자가 예산에 올리는 것은 「마음여행」이 아니라 「관계 소통 프로그램」입니다. ①서비스 카드를 ★프로그램 다섯으로 다시 세움. 무료 둘과 여권 칸은 그대로, 카드 여덟 칸 수도 그대로라 레이아웃 미변경. ②★편지 단품이 독립 상품처럼 서 있던 것을 바로잡음 — 편지 단품은 260730에 폐지됐는데 「상품 ② 마음 여행편지」로 따로 팔리는 것처럼 보였습니다. 이제 「프로그램 ② 관계 소통 프로그램」입니다. 그 절 본문은 한 글자도 안 고쳤습니다. ③★사실과 다른 문구 삭제 — 「인원 늘수록 단가 인하」. 원장은 단순 곱이라 50명이든 100명이든 단가가 같습니다(LF-S050 = 48,900 곱하기 50 = 2,445,000 실측). 없는 할인을 약속하고 있었습니다. ④예산 ② 를 ★「1인 1회차 단가 곱하기 인원 곱하기 회차」로. ⑤★「회차와 인원은 기관에서 정하십니다」 한 줄 신설(260807 대표 확정). ⑥단독 「여권번호」를 「사랑흐름 여권번호」로(260711 원칙). ★결과물 이름은 결과물 자리에 그대로 둡니다 — 프로그램은 기관이 사는 것, 결과물은 참여자가 받는 것. [무손] 여권 절·다섯 축·여덟 자리·진행 절차·기관에 남는 것·보고 자료·값·연락처·lf-menu·푸터 전부 미변경. · v17 · 260806 · [작업 v17] 「인생여행」→「두 분의 여정」 이름 교체(260806 대표 확정). 코드키 life·상품코드 LF-A·스토어 링크·발권·주문대장 J열 전부 무손 — 이름만 바꿉니다. 옛 이름은 이력 주석에 그대로 둡니다. / [v16 · 260804] [작업 v16] ⑥★상품 카드 라벨 분리 — 마음여행과 인생여행이 둘 다 「한 번에 여행하기」로 같은 라벨을 달고 있어 기관이 두 상품을 같은 것으로 읽을 수 있었습니다(대표 지적 260804). 「둘을 한 번에」·「셋을 한 번에」로 가릅니다. 상품명·값은 미변경. ★여덟 자리로 맞춤 + 못 지킬 약속 삭제 — ①「일곱 테마」·「챕터」 열 곳 제거(260803 확정: 「장」·「챕터」 금지, 「한 편」 통일). ②옆 일곱 테마 목록(유년기…지금의 마음)을 ★확정된 여덟 자리 이름으로 교체. ③「한 권으로 남습니다」 두 곳 → 「한 편」(260804 대표 확정: 종이책은 별도이므로 한 편 값에 책이 오는 것처럼 말하면 안 됨). ④「실물 제본은 별도 협의」 → 「종이책으로 엮는 일은 별도」로 표기 통일. ⑤결과물 「일곱 테마를 엮은 완성본」 → 「한 구간을 엮은 완성본」(한 편 값으로 여덟을 다 주는 것처럼 읽히던 자리). [무손] 가격·단체표·진행단계·개인정보·푸터·색값 전부 미변경. · v15 · 260728 · ①하단 줄을 공용 부품(/lf-foot.js)으로 교체 — 링크 여섯(소개·이용약관·개인정보·환불정책·카카오톡 문의·안내자·제휴) + 저작권 한글 1줄 + 영문 2줄, 모두 네 줄. 화면 스물여섯 곳이 같은 한 벌. 「홈으로」는 상단바 로고와 중복이라 뺌(260706 확정). 앞으로 하단 줄은 lf-foot.js 한 파일만 고치면 전 화면이 함께 바뀜. ②드로어에 「사랑흐름 여행 안내자」 한 줄 신설 — 「마음 여행 예매하기」 다음·「다시 시작」 앞. 홈 index v25 와 같은 자리·같은 글자. 메뉴 12항목. 새 CSS 0줄·새 색 0개. ③기관 전달 구역 정리 — 「1년 동안 유효합니다 / 올해 못 쓰신 분은 내년에」 칸 통째 삭제, 격자 네 칸(g4)→세 칸(g3, 이미 있던 클래스라 새 CSS 0줄). 전달 방식에서 「통장 봉투」·「현장 배부」 제거(같은 화면 두 곳 모두) → 「문자 · 안내장 · 인쇄 카드」.
      [무손] 상단바·본문·스크립트·GAS·결제·발권·색값 전부.
      ─── 지난 이력(v14 이전) ───────────────────────────── -->
 <!DOCTYPE html>
@@ -407,7 +408,7 @@ details.fold[open]>summary{margin-bottom:14px}
 <li><span class="n">3</span><span class="t">사진 더하기</span><span class="d">한 편에 세 장까지 넣습니다</span></li>
 <li class="mark"><span class="n">4</span><span class="t">원고 정리</span><span class="d">맞춤법과 문장만 고르게 다듬습니다. 없는 이야기를 지어내지 않습니다</span></li>
 <li class="mark"><span class="n">5</span><span class="t">본인 확인과 서명</span><span class="d">완성본을 먼저 확인하십니다. 날짜와 함께 손글씨 서명을 남기시면 그 이야기가 확정됩니다</span></li>
-<li><span class="n">6</span><span class="t">완성본 전달</span><span class="d">참여하신 분마다 결과물이 나옵니다. 각자 휴대폰에 저장하시거나 인쇄해 간직하십니다</span></li>
+<li><span class="n">6</span><span class="t">완성본 전달</span><span class="d">참여하신 분마다 결과물이 나옵니다. 각자 휴대폰 · 컴퓨터에 저장하시거나 인쇄해 간직하십니다</span></li>
 </ul>
 <p class="big" style="margin-top:16px">손글씨 서명은 그 여정을 스스로 마쳤다는 증표입니다.</p>
 <p class="fin" style="margin-top:4px">한 이야기를 마칠 때마다 날짜와 함께 남기시고, 이야기마다 남긴 증표가 모여 한 사람의 여정이 됩니다. 서명 전에는 언제든 고치실 수 있습니다.</p>

diff --git a/lf/frame.js b/lf/frame.js
@@ -1,5 +1,6 @@
 /* ═══════════════════════════════════════════════════════════════════
-   현재 버전 ▶ lf/frame.js · v28 · 261116 · [우리이야기-소통-021 · 022 · 대표 261116 17:49 「저쪽 방에 필요한 거 모두 승인」] ☰ 우리 이야기 줄(마당 · 이야기방 만들기 · 기록관 만들기) → https://uriyagi.kr/… (뒤 꼬리 같음) · 본부 알약 「⌂ 본부로」 → /hq/?hq=1. [무손] 그 밖 v27 전부.
+   현재 버전 ▶ lf/frame.js · v29 · 261116 · [696 공유하기 · 홈 화면에 추가 표준 · 대표 OK 261116 19:22] ① 공유하기 = 카카오톡 공유 카드(그림 og-image · 제목 「사랑흐름」 · 설명 「마음을 잇고, 이야기를 남기다」 · 단추 「자세히 보기」) — 카카오를 못 부르면 휴대폰 공유 창 → 주소 복사 · window.LFShare 로 어느 화면에서나 부름 ② ☰ 맨 아래 회색 작은 「공유하기」 → 같은 크기 단추 둘 「💬 공유하기」(카카오 노랑) · 「📲 홈 화면에 추가」 · 「다시 시작」은 그 아래 작게 ③ 홈 화면 아이콘 · 위 띠 그림을 사랑흐름 자기 파일(/apple-touch-icon.png · /icon-192.png)로 — 우리 이야기 폴더(/rec/) 그림을 쓰지 않음. [무손] 그 밖 v28 전부.
+   (이전) lf/frame.js · v28 · 261116 · [우리이야기-소통-021 · 022 · 대표 261116 17:49 「저쪽 방에 필요한 거 모두 승인」] ☰ 우리 이야기 줄(마당 · 이야기방 만들기 · 기록관 만들기) → https://uriyagi.kr/… (뒤 꼬리 같음) · 본부 알약 「⌂ 본부로」 → /hq/?hq=1. [무손] 그 밖 v27 전부.
    (이전) lf/frame.js · v27 · 261115 · [전체 검토 B · 대표 OK 17:26] 홈 화면 띠 글 「○○를 홈 화면에 추가하고 바로 여세요」(휴대폰에서 네 줄로 접힘) → 「홈 화면에 두고 바로 여세요」 · 그 밖 무손
    (이전) lf/frame.js · v26 · 261112 · [포털 검색 ⑤ · 706 · 710 · 대표 OK 20:54] ☰ 「사랑흐름 여행」 상품 넷 링크 → 상품별 새 주소(/item/○○/) · 방문 통계 「상품 진열」 칸에 새 주소 넷 더함 · 옛 주소에서 넘어온 손님의 들어온 곳(lf_xref)을 이어 받음
    (이전) lf/frame.js · v25 · 261111 · [공사 칸 ⑦ 말 · 577~579 · 점검표 말 사전 v1] 손님 화면 말 — 「마음 여행여권 · 관계 여권 · 마음관리청 · 앞말 없는 여권(여권번호)」 → 「사랑흐름 여권 · 사랑흐름 여권번호」 · 「바탕화면에 두기」 → 「홈 화면에 추가」 · 「장수」 → 「몇 명에게」 · 「담긴 여행」 → 「구성」 · 시트 칸 이름(여권번호)과 본부 표 머리 · 짧은 칩은 그대로
@@ -210,6 +211,7 @@
     + '.lfx-b3{background:linear-gradient(135deg,#1E4A76,#2C6399);box-shadow:inset 0 0 0 1.5px #C9A96E,0 4px 12px rgba(30,74,118,.2)}'
     + '.lfx-b3 i{background:#C9A96E;color:#1E4A76}'
     + '.lfx-b4{background:linear-gradient(160deg,#0F5A68,#08303D);margin:4px 0 4px}.lfx-b5{background:linear-gradient(160deg,#3B2F72,#1F1840);margin:4px 0 4px}.lfx-b4 i{font-size:19px}'   /* ★v14 */
+    + '.lfx-sh{display:flex;gap:8px;margin-top:14px}.lfx-sh button{flex:1 1 0;min-width:0;border:0;border-radius:12px;padding:12px 6px;font:inherit;font-size:14px;font-weight:700;cursor:pointer}.lfx-sh .kk{background:#FEE500;color:#191919}.lfx-sh .hm{background:#F4EEE4;color:#1E4A76;box-shadow:inset 0 0 0 1px #E6DCCB}'   /* ★v29 696 */
     + '.lfx-restart{display:block;margin:10px 4px 0 auto;border:0;background:none;color:#8a7a68;font:inherit;font-size:12px;cursor:pointer}'
     + 'html.lfx #lfgBub,html.lfx .lff-share,html.lfx .lffsw,html.lfx .lff-sb{display:none!important}'
     + 'html.lfx .lff-tick{display:none!important}'   /* ★v8 「여행자들의 발자취」 띠 감춤 — 번호가 모두 시험 번호(대표 확인 261005). 실제 발급이 쌓이면 여권대장에서 읽어 다시 */
@@ -310,17 +312,36 @@
       + '<div class="lfx-grp">함께하기</div>'
       + mi('안내자 · 제휴 신청', 'hand', '#1E4A76', '/partner.html')
       + mi('안내 받기', 'chat', '#1D9E75', '/guide/?ask=1')
-      + '<div style="display:flex;justify-content:space-between;margin-top:12px"><button class="lfx-restart" style="margin:0" data-share="1">공유하기</button><button class="lfx-restart" style="margin:0" data-restart="1">다시 시작</button></div>';
+      + '<div class="lfx-sh"><button type="button" class="kk" data-share="1">💬 공유하기</button><button type="button" class="hm" data-home="1">📲 홈 화면에 추가</button></div>'   /* ★v29 696 */
+      + '<button class="lfx-restart" data-restart="1">다시 시작</button>';
   }
 
-  function share() {
-    var H = 'https://www.loveflow.ai.kr';
+  /* ★v29 696 공유하기 — 카카오톡 공유 카드 · 안 되면 휴대폰 공유 창 · 주소 복사 */
+  function shareFallback(H) {
     try {
-      if (navigator.share) { navigator.share({ title: '사랑흐름', text: '가장 소중한 사람을 더 알아가는 시간, 사랑흐름', url: H })['catch'](function () {}); return; }
-      if (navigator.clipboard && navigator.clipboard.writeText) { navigator.clipboard.writeText(H).then(function () { alert('주소를 복사했어요'); }, function () {}); return; }
+      if (navigator.share) { navigator.share({ title: '사랑흐름', text: '마음을 잇고, 이야기를 남기다 — 사랑흐름', url: H })['catch'](function () {}); return; }
+      if (navigator.clipboard && navigator.clipboard.writeText) { navigator.clipboard.writeText(H).then(function () { alert('주소를 복사했습니다'); }, function () { prompt('주소를 복사해 주세요', H); }); return; }
     } catch (e) {}
     prompt('주소를 복사해 주세요', H);
   }
+  function share() {
+    var H = 'https://www.loveflow.ai.kr/';
+    function send() {
+      try {
+        if (!Kakao.isInitialized()) { Kakao.init('0c7493c2a8668712a43ccb9cf17387c8'); }
+        Kakao.Share.sendDefault({ objectType: 'feed',
+          content: { title: '사랑흐름', description: '마음을 잇고, 이야기를 남기다', imageUrl: H + 'og-image.png?v=261116', imageWidth: 1200, imageHeight: 630, link: { mobileWebUrl: H, webUrl: H } },
+          buttons: [{ title: '자세히 보기', link: { mobileWebUrl: H, webUrl: H } }] });
+      } catch (e) { shareFallback(H); }
+    }
+    if (window.Kakao && window.Kakao.Share) { send(); return; }
+    var s = document.createElement('script'); s.src = 'https://t1.kakaocdn.net/kakao_js_sdk/2.7.4/kakao.min.js';
+    var done = 0; s.onload = function () { if (done) { return; } done = 1; if (window.Kakao && window.Kakao.Share) { send(); } else { shareFallback(H); } };
+    s.onerror = function () { if (done) { return; } done = 1; shareFallback(H); };
+    setTimeout(function () { if (!done) { done = 1; shareFallback(H); } }, 5000);
+    document.head.appendChild(s);
+  }
+  window.LFShare = share;
 
   function openMenu() {
     var m = document.getElementById('lfxMenu');
@@ -337,6 +358,7 @@
         if (this.getAttribute('data-x')) { closeAll(); return; }
         if (this.getAttribute('data-restart')) { location.reload(); return; }
         if (this.getAttribute('data-share')) { share(); return; }
+        if (this.getAttribute('data-home')) { closeAll(); if (window.LFHomeAdd) { window.LFHomeAdd(); } return; }   /* ★v29 696 */
         var u = this.getAttribute('data-u'); if (u) { go(u); }
       };
     }
@@ -517,7 +539,7 @@
     try {
       var hd = document.head || document.documentElement;
       if (!document.querySelector('link[rel="manifest"]')) { var m = document.createElement('link'); m.rel = 'manifest'; m.href = '/manifest.webmanifest'; hd.appendChild(m); }
-      if (!document.querySelector('link[rel="apple-touch-icon"]')) { var a = document.createElement('link'); a.rel = 'apple-touch-icon'; a.href = '/rec/apple-icon-180.png'; hd.appendChild(a); }
+      if (!document.querySelector('link[rel="apple-touch-icon"]')) { var a = document.createElement('link'); a.rel = 'apple-touch-icon'; a.href = '/apple-touch-icon.png'; hd.appendChild(a); }
       if (!document.querySelector('meta[name="apple-mobile-web-app-title"]')) { var t = document.createElement('meta'); t.name = 'apple-mobile-web-app-title'; t.content = '사랑흐름'; hd.appendChild(t); }
       if ('serviceWorker' in navigator) { navigator.serviceWorker.register('/sw.js', { scope: '/' })['catch'](function () {}); }
     } catch (e) {}
@@ -569,7 +591,7 @@
     if (document.documentElement.classList.contains('admm') || document.body.classList.contains('admm') || document.body.classList.contains('desk')) { return; }
     css();
     var b = document.createElement('div'); b.className = 'lfh-band'; b.id = 'lfhBand';
-    b.innerHTML = '<img src="/rec/icon-192.png" alt=""><div class="tx">' + '홈 화면에 두고 바로 여세요</div>'
+    b.innerHTML = '<img src="/icon-192.png" alt=""><div class="tx">' + '홈 화면에 두고 바로 여세요</div>'
       + '<button type="button" class="go">홈 화면에 추가</button><button type="button" class="x" aria-label="닫기">✕</button>';
     var top = document.getElementById('lfxTop');
     /* ★v22 몸이 가로 줄(flex row)인 화면(gate · pay · apply · journey · letter · memoir 등 12곳)에서는 띠가 옆 칸이 되어

diff --git a/kit/index.html b/kit/index.html
@@ -1,4 +1,5 @@
-<!-- ★ 현재 버전 ▶ kit/index.html · v8 · 261024 · [칸 4 · 433 · 454 · 대표 OK 261024 21:16] 73차 결정 6 — 「예매」 → 결제로 가는 단추 「구매하기」 · 진열로 가는 길 「사랑흐름 여행 자세히 보기」 · 진열 이름 「여행 고르기」 · frame.js ?v=16. [무손] 그 밖 전부. -->
+<!-- ★ 현재 버전 ▶ kit/index.html · v9 · 261116 · [대표 261116 19:22 「휴대폰에서만 보는 게 아니잖아 · 인쇄도 못 하나 생각이 먼저 든다 · 다 뜯어 고쳐」] 「결과물이 뭐가 남습니까」 「휴대폰에 저장하시거나」 → 「휴대폰 · 컴퓨터에 저장하시거나」. [무손] 그 밖 v8 전부. -->
+<!-- (이전) ★ 현재 버전 ▶ kit/index.html · v8 · 261024 · [칸 4 · 433 · 454 · 대표 OK 261024 21:16] 73차 결정 6 — 「예매」 → 결제로 가는 단추 「구매하기」 · 진열로 가는 길 「사랑흐름 여행 자세히 보기」 · 진열 이름 「여행 고르기」 · frame.js ?v=16. [무손] 그 밖 전부. -->
 <!-- (이전) kit/index.html · v7 · 261005 · [작업 v7 · 사진 90일] [대표 결정 261005 12:10 ok] 사진도 기록과 같은 90일 규정 하나로 — 14일 규정 없앰(26차 「사진 원본 14일」 바뀜). 「기록과 함께 보관했다가 기록을 지울 때 함께 지움(마지막 이야기를 마치신 날부터 90일)」. 안내자 자료 사진 줄. [무손] 그 밖 전부. -->
 <!-- ★ (이전) kit/index.html · v6 · 261005 · [작업 v6 · 사진 문구] [클로드 판단 · 대표 위임 261005 11:29] 실제와 맞춤 — 사진은 휴대폰에서 기록에 싣는 크기(긴 쪽 1000)로 줄여 받으므로 원본 파일은 사랑흐름에 오지 않음. 「원본 14일 안에 지움」 → 「원본 파일은 받지 않음」(지킬 수 없는 약속 대신 사실). 안내자 자료 사진 줄. [무손] 그 밖 전부. -->
 <!-- ★ 현재 버전 ▶ kit/index.html · v5 · 260811 · [작업 v5] ★화면에 「여권」이 앞말 없이 덩그러니 놓여 나라 여권으로 오해될 수 있던 자리를 고칩니다(대표 지시 260811). ☰ 메뉴 항목을 ★「마음 여행여권으로 입장」으로 맞춥니다. 확정 규칙 — 손님에게 보이는 물건 이름은 「마음 여행여권」, 실제로 번호를 넣는 자리는 「사랑흐름 여권번호」. 문맥에서 이미 무슨 여권인지 아는 자리(「이 여권은」·「받으신 여권」 등)는 오해가 없어 그대로 둡니다. 시트 열 이름 d['여권번호']·변수·저장 키는 손대지 않았습니다. [무손] 본문·구조·색값·링크·배관 전부 미변경. · v4 · 260810 · [작업 v4] ★문지기(/lf/pass.js) 부착 — 대표 확정 260810 「어느 창에서 시작해도 일곱이 있어야 한다」. 이 화면에는 길 셋(←뒤로 · ⌂홈 · →앞으로)이 없어 들어오신 손님이 갇힐 수 있었습니다. 문지기가 푸터 앞에 길을 깔고, ☰ 메뉴 링크에 여권번호를 붙이며, 로고 대체글자를 「사랑흐름 홈」으로 맞춥니다. [무손] 화면 본문·마크업·기존 로직·색값 전부. 손대는 곳 = head 한 줄과 헤더. · v3 · 260728 · 【셋 · 기관에 보낼 것】 칸만 개편 — ①주소에 「기관 단가표」(/kit/price.html) 추가하여 다섯 ②「복사해 쓰는 문안 다섯」 신설(메일①·메일②·전화 첫마디·기안 문안 여덟·담당자 문답 여섯) ③「청하시면 보내 드립니다」 한 줄 삭제.
@@ -523,7 +524,7 @@ body{padding-bottom:112px}
 <div id="km5">
 <p><b>조합원 명단을 드려야 합니까</b><br>아닙니다. 번호만 나눠 주시면 됩니다. 명단을 받지 않으므로 개인정보 처리 책임이 조합에 생기지 않습니다.</p>
 <p><b>어르신들이 휴대폰으로 하실 수 있습니까</b><br>설치도 가입도 없습니다. 번호를 넣으면 시작됩니다. 손이 불편하시면 말씀하신 것을 받아 적어 드립니다.</p>
-<p><b>결과물이 뭐가 남습니까</b><br>참여하신 분마다 관계 결과지와 편지가 남습니다. 휴대폰에 저장하시거나 인쇄해 간직하십니다. 조합에는 참여 현황 보고서가 남습니다.</p>
+<p><b>결과물이 뭐가 남습니까</b><br>참여하신 분마다 관계 결과지와 편지가 남습니다. 휴대폰 · 컴퓨터에 저장하시거나 인쇄해 간직하십니다. 조합에는 참여 현황 보고서가 남습니다.</p>
 <p><b>올해 안에 됩니까</b><br>통화 한 번으로 수량과 시기를 정하고 번호는 한 번에 만들어 보내 드립니다. 준비 기간이 따로 없습니다.</p>
 <p><b>올해 못 쓰면 어떻게 됩니까</b><br>발급일로부터 1년 동안 유효합니다. 올해 못 쓰신 분은 내년에 쓰셔도 됩니다.</p>
 <p><b>자서전(한 편의 기록)은 어떻게 됩니까</b><br>완성본을 파일로 드리고 90일 동안 열람·내려받기·인쇄하십니다. 실물 제본은 별도 협의입니다. 납기는 통상 2주 내외입니다. 올려주신 사진은 기록을 만드는 데만 쓰고, 기록과 함께 보관했다가 기록을 지울 때 함께 지웁니다(마지막 이야기를 마치신 날부터 90일).</p>

diff --git a/index.html b/index.html
@@ -1,4 +1,5 @@
-<!-- ★ 현재 버전 ▶ index.html · v73 · 261116 · [우리이야기-소통-021 · 022 · 대표 261116 17:49 「저쪽 방에 필요한 거 모두 승인」] 메인 「🍇 우리 이야기」 줄 → https://uriyagi.kr/?plaza=1 (우리 이야기 새 주소). [무손] 그 밖 v72 전부. -->
+<!-- ★ 현재 버전 ▶ index.html · v74 · 261116 · [696 공유하기 표준 · 대표 OK 261116 19:22] 맨 위 마음 한마디 칸 오른쪽 위에 작은 카카오 노랑 「💬 공유하기」(→ lf/frame.js v29 LFShare · 카카오톡 공유 카드) · frame.js 부르는 꼬리 ?v=29. [무손] 그 밖 v73 전부. -->
+<!-- (이전) ★ 현재 버전 ▶ index.html · v73 · 261116 · [우리이야기-소통-021 · 022 · 대표 261116 17:49 「저쪽 방에 필요한 거 모두 승인」] 메인 「🍇 우리 이야기」 줄 → https://uriyagi.kr/?plaza=1 (우리 이야기 새 주소). [무손] 그 밖 v72 전부. -->
 <!-- (이전) ★ 현재 버전 ▶ index.html · v72 · 261116 · [카톡 첫인상 그림 교체 · 대표 OK 261116 17:39 「B로 가자」] og-image.png 새 그림(1200×630 · 나를 가운데 둔 관계망 · 「서로의 언어를 알면, 사랑은 더욱 깊어집니다」 · 「MBTI와 사랑흐름 LFRI™로 두 사람 사이를 이어갑니다」) — 그림 주소에 ?v=261116 붙임(카카오 · 네이버가 새 그림을 받게) · og:image:height 675 → 630. [무손] 그 밖 v71 전부. -->
 <!-- (이전) ★ 현재 버전 ▶ index.html · v71 · 261116 · [688 · 대표 OK 261116 15:08] 시험판 main-next v4 를 메인으로 — 사랑흐름 여행 칸 B안(상품 한 줄씩 · 지도 그림 LFRI™ 여행자 유형 · MBTI 나 × 그분 · 다섯 갈래 막대 / 편지 그림 손글씨 「엄마, "너 왜 그랬어?" …」 딸 지수 / 한 편의 기록 칸 짙은 남보라 · 표지 + 사진 두 장 · 금 테두리 · 리본) · 글 셋 · 구매하기 · 선물하기 한 번 · 우리 이야기 줄 › 동그라미 · thumb.js 부르기 뺌. 시험판 걷음. -->
 <!-- (이전) ★ 현재 버전 ▶ main-next.html · v3 · 261116 · [688 · 대표 OK 261116 14:50] 여행 칸 글 셋 고침(지도 「나와 그분을 돌아보는 길」 · MBTI × LFRI™ · 사랑흐름 지도 / 마음여행 숨은 속마음 · LFRI™가 비추는 방향 · 진심을 담아 편지로 / 한 편의 기록 목소리 · 사진 · 가족과 친구들 추억 · 인생 여정) · 지도 그림 「나 INFJ × 그분 ENFP」 · 한 편의 기록 칸만 짙은 남보라 바탕 · 이름 금색 · 그림 = 견본 표지 + 사진 두 장 겹침(memoir/samples/main-memoir.webp) · 금색 테두리 · 「자서전」 리본. -->
@@ -150,8 +151,9 @@ a.fb,a.tt,a.more{text-decoration:none;cursor:pointer}a.more{text-align:center}  
 .hplus.hid{transform:translateY(90px);opacity:0;pointer-events:none}
 
 /* ★688 마음 한마디 사람 아홉 칸 (hanmadi 첫 화면과 같은 칸 · 같은 소리) */
-.hm{background:#FFFBF2;border:1px solid #EFE5D2;border-radius:22px;padding:20px 14px 18px;box-shadow:0 4px 18px rgba(30,74,118,.06)}
+.hm{position:relative;background:#FFFBF2;border:1px solid #EFE5D2;border-radius:22px;padding:20px 14px 18px;box-shadow:0 4px 18px rgba(30,74,118,.06)}
 .hm .ey{text-align:center;font-size:12.5px;font-weight:800;color:#C79A22}
+.hm .shr{position:absolute;top:12px;right:12px;border:0;border-radius:999px;padding:5px 10px;background:#FEE500;color:#191919;font-size:12px;font-weight:700;line-height:1.2}   /* ★v74 696 */
 .hm h1{text-align:center;font-family:'Noto Sans KR',sans-serif;font-size:22px;line-height:1.45;color:#1F2A36;margin:8px 0 4px;font-weight:800}
 .hm .sub{text-align:center;font-size:13px;color:#8A8070;margin:0 0 14px}
 .ks{display:grid;grid-template-columns:repeat(3,1fr);gap:9px}
@@ -211,6 +213,7 @@ a.fb,a.tt,a.more{text-decoration:none;cursor:pointer}a.more{text-align:center}  
 <main class="home">
   <section class="hm" aria-label="마음 한마디 (무료)">
     <div class="ey">💌 마음 한마디 · 무료</div>
+    <button type="button" class="shr" onclick="window.LFShare&&LFShare()">💬 공유하기</button>
     <h1>그 사람의 마음에는,<br>아직 닿지 못한 말이 있습니다.</h1>
     <p class="sub">가장 먼저 떠오른 사람을 눌러 보세요</p>
     <div class="ks" id="ks"></div>
@@ -268,7 +271,7 @@ a.fb,a.tt,a.more{text-decoration:none;cursor:pointer}a.more{text-align:center}  
 </script>
 <script src="/lf/guide-ask.js?v=3"></script>
 <script src="/lf-foot.js" defer></script>
-<script src="/lf/frame.js?v=17"></script>
+<script src="/lf/frame.js?v=29"></script>
 
 </body>
 </html>

diff --git a/item/index.html b/item/index.html
@@ -1,4 +1,5 @@
-<!-- ★ 현재 버전 ▶ item/index.html · v9 · 261116 · [카톡 첫인상 그림 교체 · 대표 OK 261116 17:39 「B로 가자」] og-image.png 새 그림(1200×630 · 나를 가운데 둔 관계망 · 「서로의 언어를 알면, 사랑은 더욱 깊어집니다」 · 「MBTI와 사랑흐름 LFRI™로 두 사람 사이를 이어갑니다」) — 그림 주소에 ?v=261116 붙임(카카오 · 네이버가 새 그림을 받게). [무손] 그 밖 v8 전부. -->
+<!-- ★ 현재 버전 ▶ item/index.html · v10 · 261116 · [대표 261116 19:22 「휴대폰에서만 보는 게 아니잖아 · 인쇄도 못 하나 생각이 먼저 든다 · 다 뜯어 고쳐」] 「알아두실 것」 두 곳 「휴대폰에서 보는 디지털 결과물이에요」 → 「휴대폰 · 컴퓨터 · 태블릿에서 펼쳐 보시고, 인쇄하거나 파일로 저장하실 수 있어요.」 · 「휴대폰으로 물음에」 → 「휴대폰이나 컴퓨터로 물음에」. [무손] 그 밖 v9 전부. -->
+<!-- (이전) ★ 현재 버전 ▶ item/index.html · v9 · 261116 · [카톡 첫인상 그림 교체 · 대표 OK 261116 17:39 「B로 가자」] og-image.png 새 그림(1200×630 · 나를 가운데 둔 관계망 · 「서로의 언어를 알면, 사랑은 더욱 깊어집니다」 · 「MBTI와 사랑흐름 LFRI™로 두 사람 사이를 이어갑니다」) — 그림 주소에 ?v=261116 붙임(카카오 · 네이버가 새 그림을 받게). [무손] 그 밖 v8 전부. -->
 <!-- (이전) ★ 현재 버전 ▶ item/index.html · v8 · 261112 · [포털 검색 ⑤ · 706 · 710 · 대표 OK 20:54] 옛 주소는 살려 두고 열면 상품별 새 주소(/item/map/ · set/ · memoir/ · life/)로 곧바로 넘김 · noindex · 아래 화면 내용은 스크립트가 꺼진 경우를 위해 그대로 둠 -->
 <!-- (이전) ★ 현재 버전 ▶ item/index.html · v7 · 261112 · [포털 검색 ① · 700 · 703 · 대표 OK 261112 11:13] 화면은 그대로 · 머리말만 — 대표 주소(canonical) · 설명 · og · 사이트 이름 「사랑흐름」 · 아이콘(favicon) 붙임 -->
 <!-- (이전) ★ 현재 버전 ▶ item/index.html · v6 · 261111 · [공사 칸 ⑥ 입구 · 대표 OK 18:36 · 579 · 598 · 599] 아래 값 상자 — 「구매하기」 하나 → 값(상품 색) + 작은 제목 「소중한 분께 마음을 담아 선물하세요」 + [구매하기] [🎁 선물하기] 같은 크기(lf/thumb.js · 선물하기 = /pay.html?item=○○&mode=gift) · 상자 테두리 · 값은 그 상품 색 · frame.js ?v=24. [무손] 그 밖 v5 전부. -->
@@ -134,7 +135,7 @@ body.k-set .p-set,body.k-life .p-life,body.k-memoir .p-memoir{display:block}
 
   <div class="sec">
     <h2>이런 여행입니다</h2>
-    <p>어머니, 배우자, 자녀처럼 마음에 걸리는 한 사람을 떠올리고 휴대폰으로 물음에 하나씩 답합니다. 맞고 틀린 답은 없습니다. 검사나 진단이 아닙니다.</p>
+    <p>어머니, 배우자, 자녀처럼 마음에 걸리는 한 사람을 떠올리고 휴대폰이나 컴퓨터로 물음에 하나씩 답합니다. 맞고 틀린 답은 없습니다. 검사나 진단이 아닙니다.</p>
   </div>
 
   <div class="sec">
@@ -158,7 +159,7 @@ body.k-set .p-set,body.k-life .p-life,body.k-memoir .p-memoir{display:block}
 
   <div class="sec">
     <h2>알아두실 것</h2>
-    <div class="note">받은 날부터 1년 동안 이용하실 수 있어요.<br>휴대폰에서 보는 디지털 결과물이에요.<br>결과를 열어 보기 전이면 전액 환불돼요.</div>
+    <div class="note">받은 날부터 1년 동안 이용하실 수 있어요.<br>휴대폰 · 컴퓨터 · 태블릿에서 펼쳐 보시고, 인쇄하거나 파일로 저장하실 수 있어요.<br>결과를 열어 보기 전이면 전액 환불돼요.</div>
   </div>
 
   <div class="buy k-map">
@@ -224,7 +225,7 @@ body.k-set .p-set,body.k-life .p-life,body.k-memoir .p-memoir{display:block}
 
   <div class="sec">
     <h2>알아두실 것</h2>
-    <div class="note">받은 날부터 1년 동안 이용하실 수 있어요.<br>휴대폰에서 보는 디지털 결과물이에요.<br>결과를 열어 보기 전이면 전액 환불돼요.</div>
+    <div class="note">받은 날부터 1년 동안 이용하실 수 있어요.<br>휴대폰 · 컴퓨터 · 태블릿에서 펼쳐 보시고, 인쇄하거나 파일로 저장하실 수 있어요.<br>결과를 열어 보기 전이면 전액 환불돼요.</div>
   </div>
 
   <div class="buy k-set">

diff --git a/my/index.html b/my/index.html
@@ -1,4 +1,5 @@
-<!-- ★ 현재 버전 ▶ my/index.html · v5 · 261111 · [공사 칸 ⑦ 말 · 577~579 · 점검표 말 사전 v1] 손님 화면 말 — 「마음 여행여권 · 관계 여권 · 마음관리청 · 앞말 없는 여권(여권번호)」 → 「사랑흐름 여권 · 사랑흐름 여권번호」 · 「바탕화면에 두기」 → 「홈 화면에 추가」 · 「장수」 → 「몇 명에게」 · 「담긴 여행」 → 「구성」 · 시트 칸 이름(여권번호)과 본부 표 머리 · 짧은 칩은 그대로 -->
+<!-- ★ 현재 버전 ▶ my/index.html · v6 · 261116 · [696 홈 화면 아이콘 · 대표 OK 261116 19:22] 홈 화면 아이콘 /rec/apple-icon-180.png(우리 이야기 폴더) → 사랑흐름 자기 파일 /apple-touch-icon.png. [무손] 그 밖 v5 전부. -->
+<!-- (이전) ★ 현재 버전 ▶ my/index.html · v5 · 261111 · [공사 칸 ⑦ 말 · 577~579 · 점검표 말 사전 v1] 손님 화면 말 — 「마음 여행여권 · 관계 여권 · 마음관리청 · 앞말 없는 여권(여권번호)」 → 「사랑흐름 여권 · 사랑흐름 여권번호」 · 「바탕화면에 두기」 → 「홈 화면에 추가」 · 「장수」 → 「몇 명에게」 · 「담긴 여행」 → 「구성」 · 시트 칸 이름(여권번호)과 본부 표 머리 · 짧은 칩은 그대로 -->
 <!-- (이전) my/index.html · v4 · 261111 · [공사 칸 ⑥ 입구 · 대표 OK 18:36 · 579 · 599] ①상품 단추 앞 그림 — 🗺 ✉ ✍ → 그 상품의 결과물 견본(lf/thumb.js · 만든 사람만 알아보는 그림 대신) ②본부 발급 그림 — /my/#cards=(본부 「발급 목록」이 만든 목록) 이면 서버를 부르지 않고 탑승권 그림만 차례로 그려 「이미지 저장」(QR 은 /reenter.html?id= · 열쇠 없이) ③남은 편 0(다 씀)인 상품 바로 아래에만 「○○을 더 쓰시려면」 + [구매하기] [🎁 선물하기] 같은 크기(마음 여행편지는 마음여행으로) — 옛 셈(source old)이면 두지 않음 · 막지 않음(보기 단추는 그대로) ④frame.js ?v=24. [무손] 그 밖 v3 전부. -->
 <!-- (이전) my/index.html · v3 · 261111 · [대표 15:46 「카드로 직접 샀는데 왜 ○○ 외 한 분이 선물하신이 나와」 → OK 15:50] ①「외 1분」 대신 이름 그대로 — 「박서윤 님이 선물하신」 · 「박서윤 · 이민정 님이 함께 선물하신」(넷 이상만 「… 님 외 n분」) · 탑승권 그림 「선물 · GIFT FROM」 칸도 같은 줄 ②선물로만 받은 사랑흐름 여권일 때만 맨 위 선물 상자 · 직접 산 사랑흐름 여권(서버 gift v5 own)에 선물이 더해졌으면 맨 위는 「○○ 님의 사랑흐름 여권」 그대로 + 아래 「🎁 박서윤 님이 보낸 선물 · 마음여행 3편」 줄 · 안내 글도 「○○ 님의 사랑흐름 여권으로 여행하시려면」. [무손] 그 밖 v2 전부. -->
 <!-- (이전) my/index.html · v2 · 261111 · [대표 15:35~15:39 「뭔지도 모르는데 맨 위에 단추 · QR 은 사람들이 몰라 · 번호를 물고 입장 · 구구절절 안내」] 차례를 바꿈 — ① 「○○ 님이 선물하신 사랑흐름 여권입니다」(선물일 때 맨 위) ② 탑승권 그림 ③ 지난 마음 여행편지 ④ 다 본 자리에 「○○ 님이 선물하신 사랑흐름 여권으로 여행하시려면 아래 단추를 누르세요 · 누르시면 사랑흐름 여권번호가 자동으로 입력되어 바로 들어갑니다」 + 「마음 여행지도로 입장하기 ›」 · 「마음 여행편지로 입장하기 ›」 · 「한 편의 기록으로 입장하기 ›」 ⑤ 이 휴대폰에 두기. QR 은 그림 안에만(안내에 쓰지 않음). [무손] 서버 · 열쇠 · 그림 · 그 밖 v1 전부. -->
@@ -18,7 +19,7 @@
 <meta name="referrer" content="no-referrer">
 <title>사랑흐름 여권</title>
 <link rel="manifest" href="/my/manifest.webmanifest">
-<link rel="apple-touch-icon" href="/rec/apple-icon-180.png">
+<link rel="apple-touch-icon" href="/apple-touch-icon.png">
 <meta name="apple-mobile-web-app-capable" content="yes">
 <meta name="apple-mobile-web-app-title" content="사랑흐름 여권">
 <meta name="theme-color" content="#1E4A76">

diff --git a/item/map/index.html b/item/map/index.html
@@ -1,4 +1,5 @@
-<!-- ★ 현재 버전 ▶ item/map/index.html · v2 · 261116 · [카톡 첫인상 그림 교체 · 대표 OK 261116 17:39 「B로 가자」] og-image.png 새 그림(1200×630 · 나를 가운데 둔 관계망 · 「서로의 언어를 알면, 사랑은 더욱 깊어집니다」 · 「MBTI와 사랑흐름 LFRI™로 두 사람 사이를 이어갑니다」) — 그림 주소에 ?v=261116 붙임(카카오 · 네이버가 새 그림을 받게). [무손] 그 밖 v1 전부. -->
+<!-- ★ 현재 버전 ▶ item/map/index.html · v3 · 261116 · [대표 261116 19:22 「휴대폰에서만 보는 게 아니잖아 · 인쇄도 못 하나 생각이 먼저 든다 · 다 뜯어 고쳐」] 「알아두실 것」 「휴대폰에서 보는 디지털 결과물이에요」 → 「휴대폰 · 컴퓨터 · 태블릿에서 펼쳐 보시고, 인쇄하거나 파일로 저장하실 수 있어요.」 · 「휴대폰으로 물음에」 → 「휴대폰이나 컴퓨터로 물음에」. [무손] 그 밖 v2 전부. -->
+<!-- (이전) ★ 현재 버전 ▶ item/map/index.html · v2 · 261116 · [카톡 첫인상 그림 교체 · 대표 OK 261116 17:39 「B로 가자」] og-image.png 새 그림(1200×630 · 나를 가운데 둔 관계망 · 「서로의 언어를 알면, 사랑은 더욱 깊어집니다」 · 「MBTI와 사랑흐름 LFRI™로 두 사람 사이를 이어갑니다」) — 그림 주소에 ?v=261116 붙임(카카오 · 네이버가 새 그림을 받게). [무손] 그 밖 v1 전부. -->
 <!-- (이전) ★ 현재 버전 ▶ item/map/index.html · v1 · 261112 · [포털 검색 ⑤ · 706 · 710 · 대표 OK 20:54] 「마음 여행지도」 상품 설명 화면을 자기 주소로 — 옛 /item/?k=map 의 그 상품 내용을 그대로 옮김(화면 모양 · 글 · 값 · 구매하기 · 선물하기 같음) · 원문 제목 · 설명 · 대표 주소 · og · 이동 경로(BreadcrumbList)를 이 상품 것으로 · 옛 주소는 이 주소로 넘어옴 -->
 <!DOCTYPE html>
 <html lang="ko">
@@ -131,7 +132,7 @@ body.k-set .p-set,body.k-life .p-life,body.k-memoir .p-memoir{display:block}
 
   <div class="sec">
     <h2>이런 여행입니다</h2>
-    <p>어머니, 배우자, 자녀처럼 마음에 걸리는 한 사람을 떠올리고 휴대폰으로 물음에 하나씩 답합니다. 맞고 틀린 답은 없습니다. 검사나 진단이 아닙니다.</p>
+    <p>어머니, 배우자, 자녀처럼 마음에 걸리는 한 사람을 떠올리고 휴대폰이나 컴퓨터로 물음에 하나씩 답합니다. 맞고 틀린 답은 없습니다. 검사나 진단이 아닙니다.</p>
   </div>
 
   <div class="sec">
@@ -155,7 +156,7 @@ body.k-set .p-set,body.k-life .p-life,body.k-memoir .p-memoir{display:block}
 
   <div class="sec">
     <h2>알아두실 것</h2>
-    <div class="note">받은 날부터 1년 동안 이용하실 수 있어요.<br>휴대폰에서 보는 디지털 결과물이에요.<br>결과를 열어 보기 전이면 전액 환불돼요.</div>
+    <div class="note">받은 날부터 1년 동안 이용하실 수 있어요.<br>휴대폰 · 컴퓨터 · 태블릿에서 펼쳐 보시고, 인쇄하거나 파일로 저장하실 수 있어요.<br>결과를 열어 보기 전이면 전액 환불돼요.</div>
   </div>
 
   <div class="buy k-map">

diff --git a/draw/index.html b/draw/index.html
@@ -1,4 +1,5 @@
-<!-- ★ 현재 버전 ▶ draw/index.html · v46 · 261116 · [카톡 첫인상 그림 교체 · 대표 OK 261116 17:39 「B로 가자」] og-image.png 새 그림(1200×630 · 나를 가운데 둔 관계망 · 「서로의 언어를 알면, 사랑은 더욱 깊어집니다」 · 「MBTI와 사랑흐름 LFRI™로 두 사람 사이를 이어갑니다」) — 그림 주소에 ?v=261116 붙임(카카오 · 네이버가 새 그림을 받게). [무손] 그 밖 v45 전부. -->
+<!-- ★ 현재 버전 ▶ draw/index.html · v47 · 261116 · [대표 261116 19:22 「휴대폰에서만 보는 게 아니잖아 · 다 뜯어 고쳐」] 단추 「손글씨 휴대폰에 저장」 → 「손글씨 이미지 저장」(컴퓨터에서는 내려받기 · 크롬 · 카카오톡의 「이미지 저장」 말). [무손] 그 밖 v46 전부. -->
+<!-- (이전) ★ 현재 버전 ▶ draw/index.html · v46 · 261116 · [카톡 첫인상 그림 교체 · 대표 OK 261116 17:39 「B로 가자」] og-image.png 새 그림(1200×630 · 나를 가운데 둔 관계망 · 「서로의 언어를 알면, 사랑은 더욱 깊어집니다」 · 「MBTI와 사랑흐름 LFRI™로 두 사람 사이를 이어갑니다」) — 그림 주소에 ?v=261116 붙임(카카오 · 네이버가 새 그림을 받게). [무손] 그 밖 v45 전부. -->
 <!-- (이전) ★ 현재 버전 ▶ draw/index.html · v45 · 261112 · [포털 검색 ① · 700 · 703 · 대표 OK 261112 11:13] 화면은 그대로 · 머리말만 — 대표 주소(canonical) · 설명 · og · 사이트 이름 「사랑흐름」 · 아이콘(favicon) 붙임 -->
 <!-- (이전) ★ 현재 버전 ▶ draw/index.html · v44 · 261111 · [공사 칸 ⑦ 말 · 577~579 · 점검표 말 사전 v1] 손님 화면 말 — 「마음 여행여권 · 관계 여권 · 마음관리청 · 앞말 없는 여권(여권번호)」 → 「사랑흐름 여권 · 사랑흐름 여권번호」 · 「바탕화면에 두기」 → 「홈 화면에 추가」 · 「장수」 → 「몇 명에게」 · 「담긴 여행」 → 「구성」 · 시트 칸 이름(여권번호)과 본부 표 머리 · 짧은 칩은 그대로 -->
 <!-- (이전) draw/index.html · v43 · 261105 · [536 · 대표 OK 21:21 「손볼 때 한 번에」] 화면 말 바로잡기(읽고 바로 아는 말) — 「이 마음 담기」→「완성하기」 · 「이미지 저장」→「손글씨 휴대폰에 저장」. [무손] 배관 · 서버 · 저장 길 · 옛 이력 주석. -->
@@ -415,7 +416,7 @@
 
   <div class="actions">
     <button class="btn main" id="seal">완성하기</button>
-    <button class="btn sub" id="save" style="word-break:keep-all">손글씨<br>휴대폰에 저장</button>
+    <button class="btn sub" id="save" style="word-break:keep-all">손글씨<br>이미지 저장</button>
   </div>
 
   <div class="out" id="out">

diff --git a/item/set/index.html b/item/set/index.html
@@ -1,4 +1,5 @@
-<!-- ★ 현재 버전 ▶ item/set/index.html · v2 · 261116 · [카톡 첫인상 그림 교체 · 대표 OK 261116 17:39 「B로 가자」] og-image.png 새 그림(1200×630 · 나를 가운데 둔 관계망 · 「서로의 언어를 알면, 사랑은 더욱 깊어집니다」 · 「MBTI와 사랑흐름 LFRI™로 두 사람 사이를 이어갑니다」) — 그림 주소에 ?v=261116 붙임(카카오 · 네이버가 새 그림을 받게). [무손] 그 밖 v1 전부. -->
+<!-- ★ 현재 버전 ▶ item/set/index.html · v3 · 261116 · [대표 261116 19:22 「휴대폰에서만 보는 게 아니잖아 · 인쇄도 못 하나 생각이 먼저 든다 · 다 뜯어 고쳐」] 「알아두실 것」 「휴대폰에서 보는 디지털 결과물이에요」 → 「휴대폰 · 컴퓨터 · 태블릿에서 펼쳐 보시고, 인쇄하거나 파일로 저장하실 수 있어요.」. [무손] 그 밖 v2 전부. -->
+<!-- (이전) ★ 현재 버전 ▶ item/set/index.html · v2 · 261116 · [카톡 첫인상 그림 교체 · 대표 OK 261116 17:39 「B로 가자」] og-image.png 새 그림(1200×630 · 나를 가운데 둔 관계망 · 「서로의 언어를 알면, 사랑은 더욱 깊어집니다」 · 「MBTI와 사랑흐름 LFRI™로 두 사람 사이를 이어갑니다」) — 그림 주소에 ?v=261116 붙임(카카오 · 네이버가 새 그림을 받게). [무손] 그 밖 v1 전부. -->
 <!-- (이전) ★ 현재 버전 ▶ item/set/index.html · v1 · 261112 · [포털 검색 ⑤ · 706 · 710 · 대표 OK 20:54] 「마음여행」 상품 설명 화면을 자기 주소로 — 옛 /item/?k=set 의 그 상품 내용을 그대로 옮김(화면 모양 · 글 · 값 · 구매하기 · 선물하기 같음) · 원문 제목 · 설명 · 대표 주소 · og · 이동 경로(BreadcrumbList)를 이 상품 것으로 · 옛 주소는 이 주소로 넘어옴 -->
 <!DOCTYPE html>
 <html lang="ko">
@@ -141,7 +142,7 @@ body.k-set .p-set,body.k-life .p-life,body.k-memoir .p-memoir{display:block}
 
   <div class="sec">
     <h2>알아두실 것</h2>
-    <div class="note">받은 날부터 1년 동안 이용하실 수 있어요.<br>휴대폰에서 보는 디지털 결과물이에요.<br>결과를 열어 보기 전이면 전액 환불돼요.</div>
+    <div class="note">받은 날부터 1년 동안 이용하실 수 있어요.<br>휴대폰 · 컴퓨터 · 태블릿에서 펼쳐 보시고, 인쇄하거나 파일로 저장하실 수 있어요.<br>결과를 열어 보기 전이면 전액 환불돼요.</div>
   </div>
 
   <div class="buy k-set">
